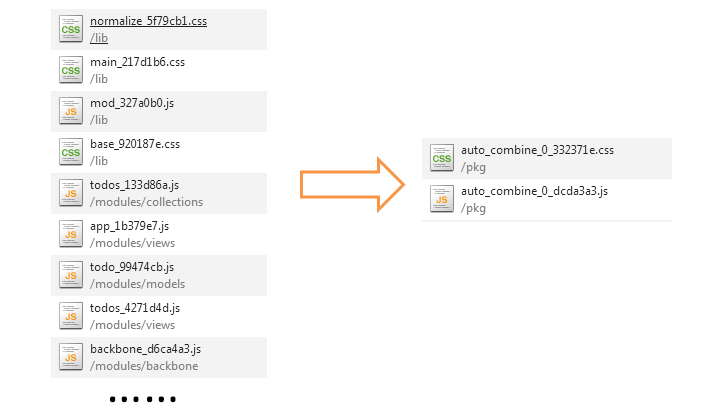
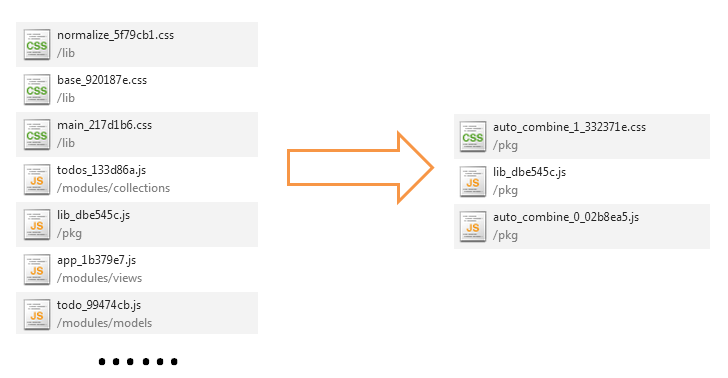
调整合并打包介绍顺序

diff --git a/docs/beginning/getting-started.md b/docs/beginning/getting-started.md
@@ -132,14 +132,25 @@ $ fis release --optimize --md5 # fis release -om
 
 ## 资源合并
 
-<!-- > 通过FIS，我们可以引入多种静态资源管理模式，比如百度内部使用的FIS-PLUS解决方案，通过Smarty插件扩展的形式收集静态资源，同时可以根据模块的线上调用统计日志智能化的进行资源合并管理。
 
-> 关于FIS的静态资源管理思路，可以参考 [静态资源管理与模板框架](http://www.infoq.com/cn/articles/front-end-engineering-and-performance-optimization-part2/)，但是这里描述的是一种较完备的方案，需要根据后端的技术选型进行一些后端模板开发。本篇指南则是介绍一种利用FIS在构建阶段自动完成资源合并工作的方法，使用成本更加低，更加适合中小型项目。
- -->
+### 设置打包
 
-FIS内置提供了[pack](/docs/api/fis-conf.html#pack)设置为资源进行打包，同时为了达到静态资源引用标签自动合并的目的，我们需要扩展FIS的功能，添加简单打包插件[fis-postpackager-simple](https://github.com/hefangshi/fis-postpackager-simple)。
+FIS可以通过[pack](/docs/api/fis-conf.html#pack)来进行资源文件的合并，比如我们需要将DEMO中的公共库文件打包在一起，可以修改fis-conf.js配置，加入pack配置
 
-<!-- 它的功能是收集页面中的已有的script和link标签，将这些标签引用的资源进行自动合并，并将原有的script和link标签替换为自动合并后的标签，最终达到页面级的静态资源合并能力。-->
+```javascript
+fis.config.set('pack', {
+    'pkg/lib.js': [
+        '/lib/mod.js',
+        '/modules/underscore/**.js',
+        '/modules/backbone/**.js',
+        '/modules/jquery/**.js',
+        '/modules/vendor/**.js',
+        '/modules/common/**.js'
+    ]
+});
+```
+
+设置完pack后，FIS默认只会进行文件打包，不会对页面中的静态资源引用进行替换，我们可以通过引入后端静态资源管理来加载打包模块。不过也可以利用[fis-postpackager-simple](https://github.com/hefangshi/fis-postpackager-simple)插件，可以自动将页面中独立的资源引用替换为打包资源。
 
 ### 插件安装
 
@@ -163,9 +174,7 @@ $ vi fis-conf.js #vi是linux下的文本编辑器，windows用户可以选用任
 fis.config.set('modules.postpackager', 'simple');
 ```
 
-### 资源合并优化
-
-对于[减少HTTP连接数](http://www.baidu.com/?isidx=1#wd=%E5%87%8F%E5%B0%91HTTP%E8%BF%9E%E6%8E%A5%E6%95%B0)的必要性在这里我们就不再赘述。让我们直接试试看在fis-postpackager-simple插件支持下，如何通过FIS对这些独立的请求进行合并。
+### 应用打包
 
 为了开发调试时更加方便 ```fis release``` 默认不会合并资源，在指定了 ```--pack``` 参数后，FIS才会进行打包合并处理。
 
@@ -173,27 +182,18 @@ fis.config.set('modules.postpackager', 'simple');
 $ fis release --optimize --md5 --pack # fis release -omp
 ```
 
-再次浏览我们可以发现所有的脚本资源均被自动合并为了一个文件，关于fis-postpackager-simple插件更多的静态资源处理策略和使用方法，请参考[fis-postpackager-simple](https://github.com/hefangshi/fis-postpackager-simple#%E9%9D%99%E6%80%81%E8%B5%84%E6%BA%90%E5%A4%84%E7%90%86%E7%AD%96%E7%95%A5)。
+再次浏览我们可以发现原有的基础类库引用已经被替换为了 ```lib.js``` ，关于fis-postpackager-simple插件更多的静态资源处理策略和使用方法，请参考[fis-postpackager-simple](https://github.com/hefangshi/fis-postpackager-simple#%E9%9D%99%E6%80%81%E8%B5%84%E6%BA%90%E5%A4%84%E7%90%86%E7%AD%96%E7%95%A5)。
 
-![资源合并](img/quickstart/combine_2.png)
+![资源合并](img/quickstart/combine.png)
 
-### 人工干预合并
+### 自动打包
 
-我们可以通过[pack](/docs/api/fis-conf.html#pack)设置来干预合并结果。人工干预的必要性在于我们可以将类似underscore、jquery、backbone等基础库固定打包，首先我们可以让不同页面之间公用这些基础库而不用重新下载，其次由于基础库不容易改变，这种策略也对缓存更加友好。
-
-修改fis-conf.js配置，加入pack配置
+利用simple插件，我们还可以按页面进行自动合并，将没有通过pack设置打包的零散资源自动合并起来。
 
 ```javascript
-fis.config.set('pack', {
-    'pkg/lib.js': [
-        '/lib/mod.js',
-        '/modules/underscore/**.js',
-        '/modules/backbone/**.js',
-        '/modules/jquery/**.js',
-        '/modules/vendor/**.js',
-        '/modules/common/**.js'
-    ]
-});
+//file : fis-conf.js
+//开启autoCombine可以将零散资源进行自动打包
+fis.config.set('settings.postpackager.simple.autoCombine', true);
 ```
 
 再次运行FIS构建项目
@@ -202,9 +202,9 @@ fis.config.set('pack', {
 $ fis release -omp
 ```
 
-我们会发现 ```lib.js``` 已经被独立打包加载了
+我们会发现剩余的零散资源已经被自动合并了。
 
-![人工干预合并](img/quickstart/pack_combine_2.png)
+![人工干预合并](img/quickstart/combine_2.png)
 
 ### 合并图片
 
